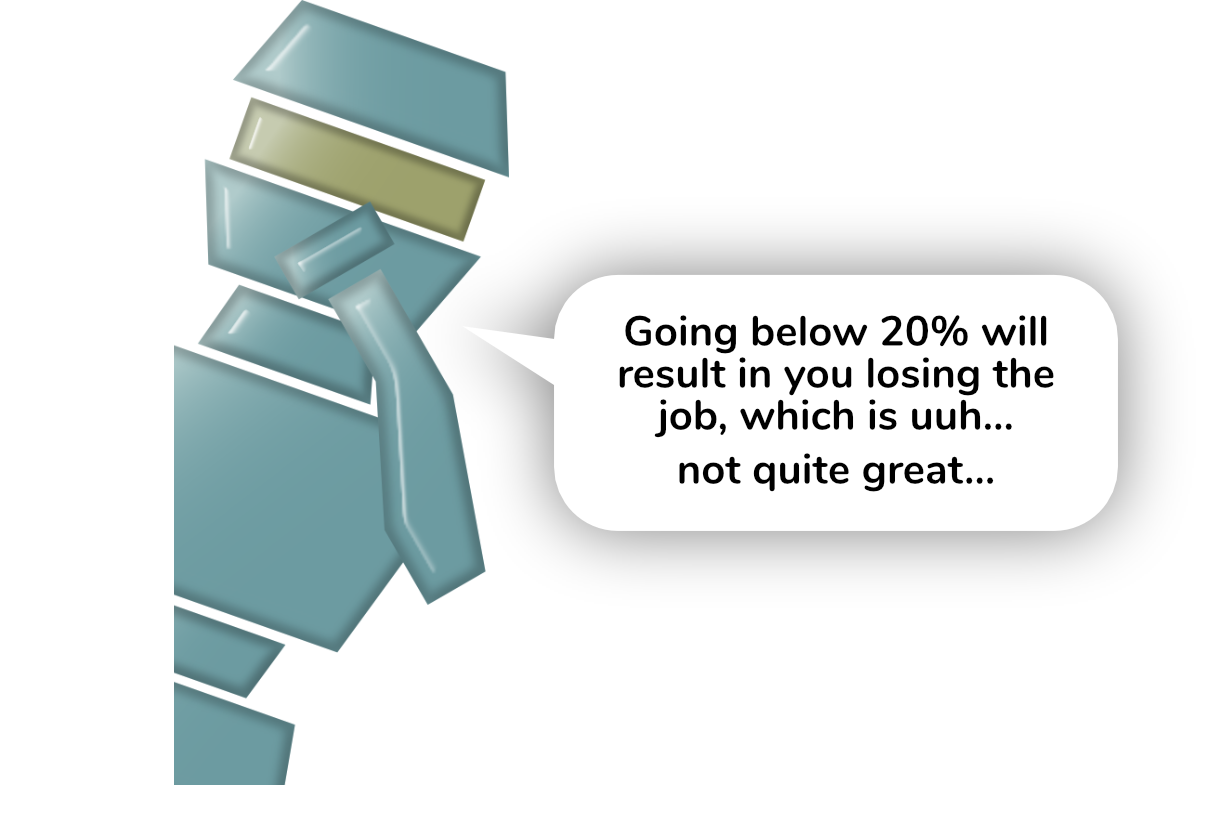
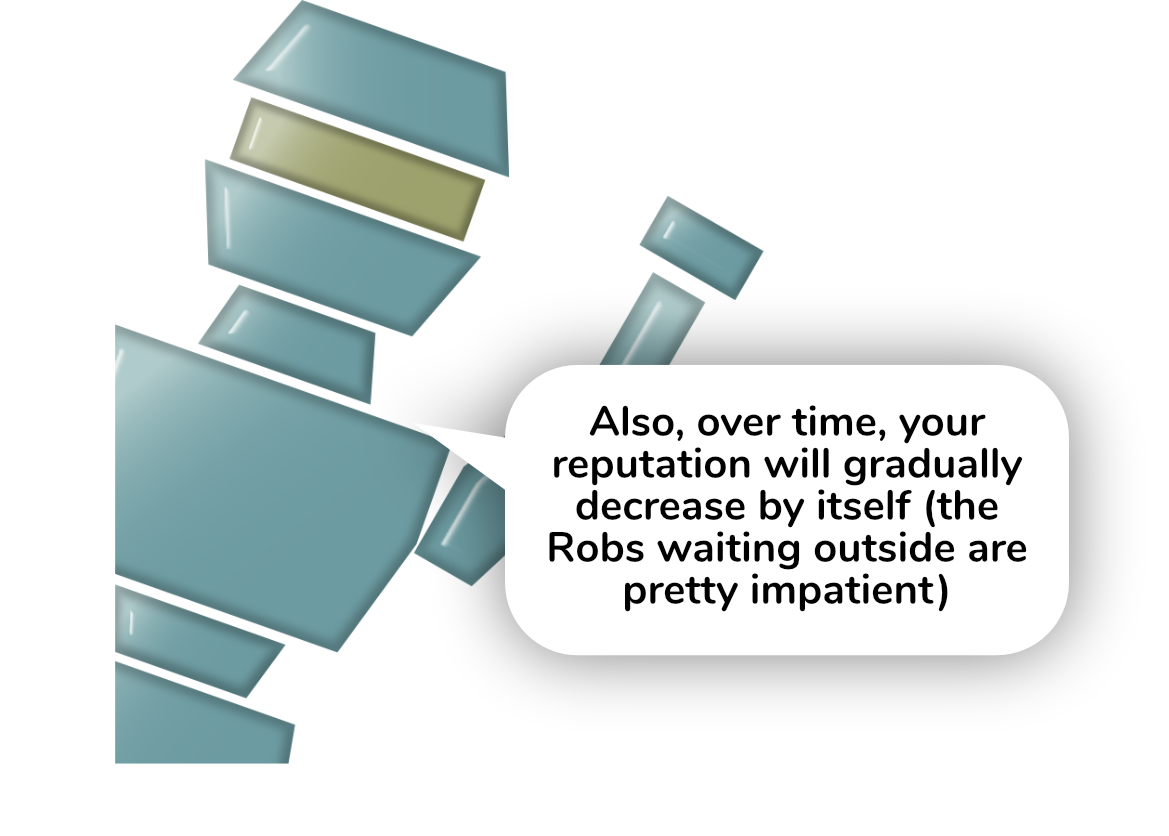
tut update

Changed region(s): [[0.0924, 0.0, 0.9547, 0.9641], [0.308, 0.0311, 0.3695, 0.0622]]

diff --git a/Assets/Script/tutorial.cs b/Assets/Script/tutorial.cs
@@ -62,18 +62,21 @@ public class tutorial : MonoBehaviour
                 simple(1);
                 break;
             case 12:
-                simple(3);
+                simple(1);
                 break;
             case 13:
-                simple(1);
+                simple(3);
                 break;
             case 14:
                 simple(1);
                 break;
             case 15:
-                simple(2);
+                simple(1);
                 break;
             case 16:
+                simple(2);
+                break;
+            case 17:
                 simple(2);
                 //PlayerPrefs.SetInt("Tut", 1);
                 break;
@@ -92,11 +95,11 @@ public class tutorial : MonoBehaviour
 
     public void Advance()
     {
-        if(farth < 16)
+        if(farth < 17)
         {
             part1();
         }
-        else if (farth == 16)
+        else if (farth == 17)
         {
             tg.SetActive(false);
         }
